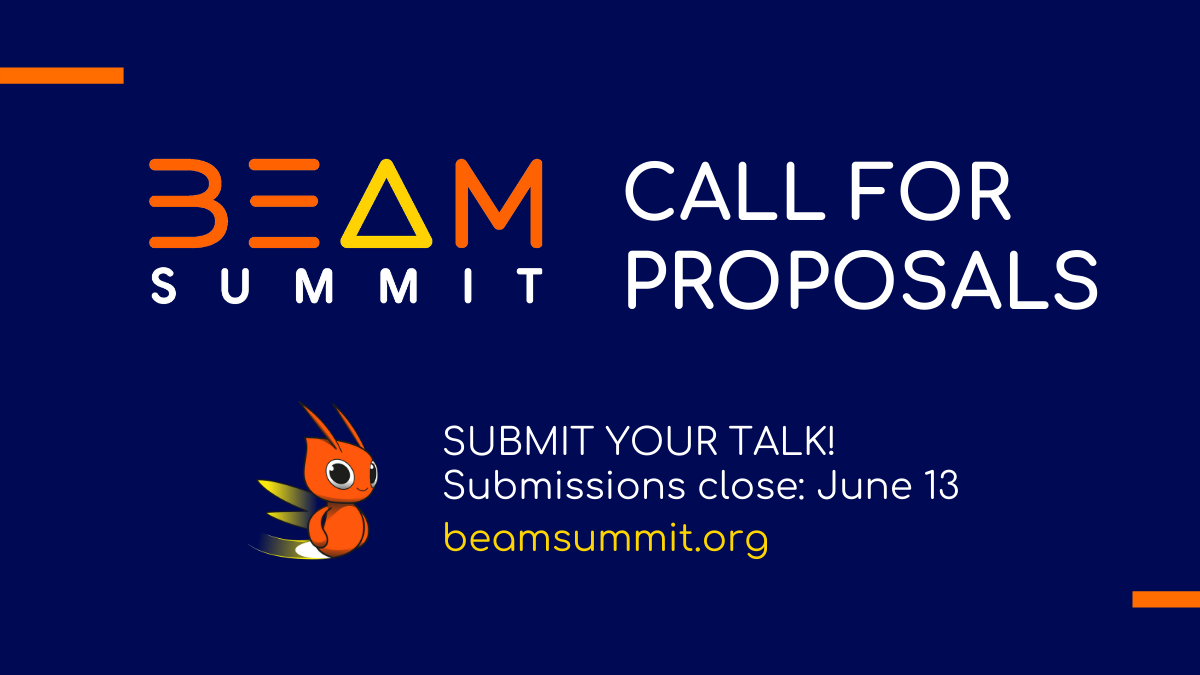
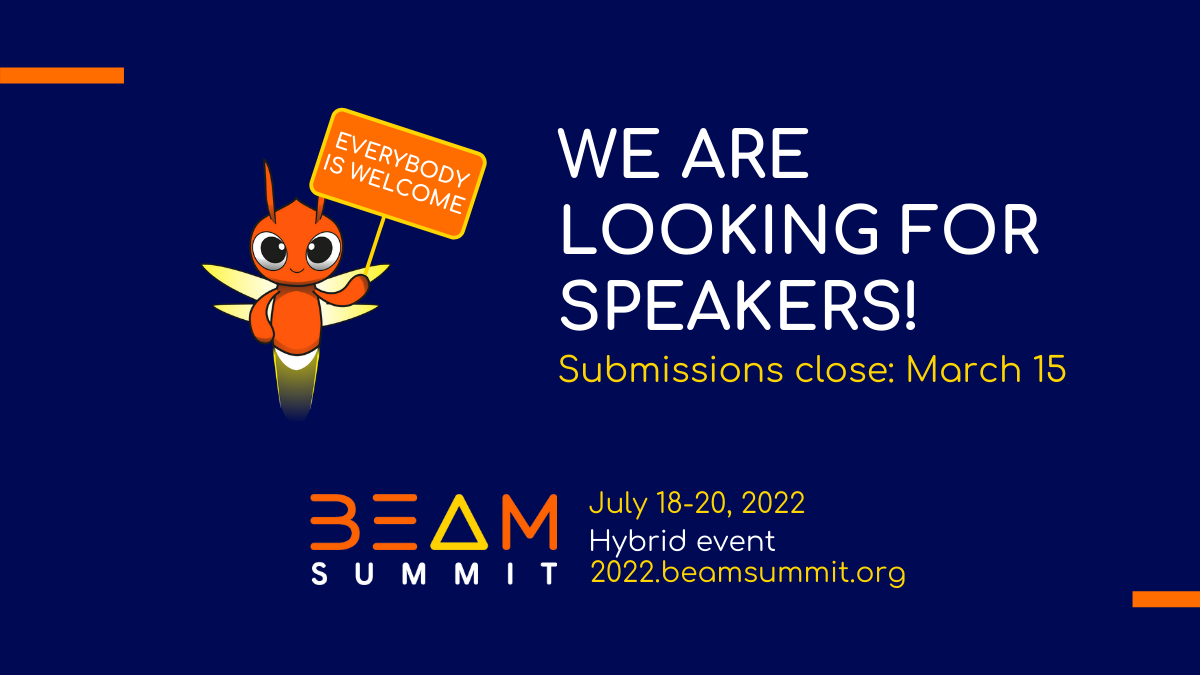
Added blog posts for cfp and early bird

Changed region(s): [[0.1233, 0.1556, 0.925, 0.8711], [0.4625, 0.5289, 0.8942, 0.5911]]

diff --git a/content/blog/CFP-open.md b/content/blog/CFP-open.md
@@ -1,25 +1,29 @@
 ---
-title: "Beam Summit 2021 CFP is open!"
-date: 2021-12-16T16:29:57-05:00
-description: ""
+title: "Beam Summit 2022 CFP is open. We want to hear from you!"
+date: 2022-02-01T16:29:57-05:00
+description: "The CFP for Beam Summit 2022 is open. Submit your session by March 15."
 # post thumb
 image : "/images/blog/CFP.png"
 images : ["/images/blog/CFP.png"]
 # author
 author: "Beam Summit Team"
-draft: true
+
 ---
 
-Welcome to the Beam Digital Summit 2021 "Call for Papers". The goal of the summit is to grow the community, exchange ideas and knowledge around "Apache Beam".
-We are looking for speakers that can provide technical insights, but also for people that can tell interesting stories on how and where "Apache Beam" is used.
-The following session types are suggested (if you have a good reason to deviate from the format please add this to your description):
-Session 20m: A short session of 20 minutes, ideal for a use-case or technical insight.
-Session 40m: A long session of 40 minutes, ideal for a technical deep dive.
-Workshops of half an hour, 1 or 2 hours on a specific topic.
-Lightning talks of maximum 7 minutes..
+The "Call for Papers" for Beam Summit 2022 is open. 
 
-<br>
-<center>
-<a href="https://sessionize.com/beam-digital-summit-2021/" target="_blank" class="btn btn-warning mt-3 mb-5">Submit your proposal now</a>
-</center>
+We are looking for speakers that can provide technical insights, but also for people that can tell interesting stories on how and where "Apache Beam" is used.
+
+The following session types are suggested (if you have a good reason to deviate from the format please add this to your description):
+
+* Session 25m: Live session of 25 minutes, ideal for a use-case.
+* Session 50m: Live session of 50 minutes, ideal for a technical deep dive.
+* Workshop (3 hours). Live, half-day, onsite only workshops.
+* Lightning talk 10m: Quick talks that are ideal for sharing insight or drawing attention to a specific topic. These may be prerecorded.
+
+While we prefer to have speakers present in person, we can accommodate for speakers who cannot travel or attend in person.
+
+<div class="text-center">
+<a href="https://sessionize.com/beam-summit-2022" target="_blank" class="btn btn-warning mt-3 mb-5">Submit your proposal now</a>
+</div>
 

diff --git a/content/tickets.md b/content/tickets.md
@@ -7,29 +7,30 @@ description: "Get your tickets for Beam Summit 2022"
 ## Ticket types and price
 
 <table class="table prices">
-<th>Ticket type</th>
-<th>Early bird price</th>
-<th>Regular price</th>
+<tr>
+  <th>Ticket type</th>
+  <th>Early bird price</th>
+  <th>Regular price</th>
 </tr>
 <tr>
-<td>Online attendance</td>
-<td>Free</td>
-<td>Free</td>
+  <td>Online attendance</td>
+  <td>Free</td>
+  <td>Free</td>
 </tr>
 <tr>
-<td>In-person attendance for July 18-19 (conference)</td>
-<td>$230</td>
-<td>$290</td>
+  <td>In-person attendance for July 18-19 (conference)</td>
+  <td>$230</td>
+  <td>$290</td>
 </tr>
 <tr>
-<td>In-person attendance for July 18-20 (conference & workshops)</td>
-<td>$290</td>
-<td>$350</td>
+  <td>In-person attendance for July 18-20 (conference & workshops)</td>
+  <td>$290</td>
+  <td>$350</td>
 </tr>
 </table>
 
-<div class="d-flex justify-content-center">
+<div class="d-flex justify-content-center mb-4">
 <a href="https://beamsummit-2022.eventbrite.com" target="_blank" class="btn btn-yellow btn-rounded mt-3">Get your tickets on Eventbrite</a>
 </div>
 
-<p class="mt-4">If you would like to attend in person but cannot afford a ticket, please <a href="https://forms.gle/STT1tYp9MefGzN5L9" target="_blank">apply for a scholarship.</p>
+If you would like to attend in person but cannot afford a ticket, please <a href="https://forms.gle/STT1tYp9MefGzN5L9" target="_blank">apply for a scholarship.</a>

diff --git a/content/blog/registration-open.md b/content/blog/registration-open.md
@@ -1,0 +1,21 @@
+---
+title: "Get your early bird tickets for Beam Summit 2022"
+date: 2022-02-14T16:29:57-05:00
+description: "Registration for Beam Summit 2022 is open. Get your tickets now!"
+# post thumb
+image : "/images/blog/registration.jpg"
+images : ["/images/blog/registration.jpg"]
+# author
+author: "Beam Summit Team"
+
+---
+
+Registration is now open for Beam Summit 2022.
+
+* Online participation is free. Please get a free ticket in order to be able to access the sessions.
+* Early bird pricing for in-person passes is $290 USD for 2-day pass and $350 USD for 3-day pass.
+* If you would like to attend in person but cannot afford a ticket, please [apply for a scholarship](https://forms.gle/STT1tYp9MefGzN5L9).
+
+
+<a href="/tickets">Check out ticket options and prices.</a>
+

diff --git a/content/blog/beamsummit-2022.md b/content/blog/beamsummit-2022.md
@@ -5,7 +5,7 @@ description: "We are currently planning the next edition of Beam Summit for Summ
 image : "/images/blog/beamsummit-2022-coming.png"
 images : ["/images/blog/beamsummit-2022-coming.png"]
 author: "Beam Summit Team"
-draft: false
+draft: true
 
 ---
 
